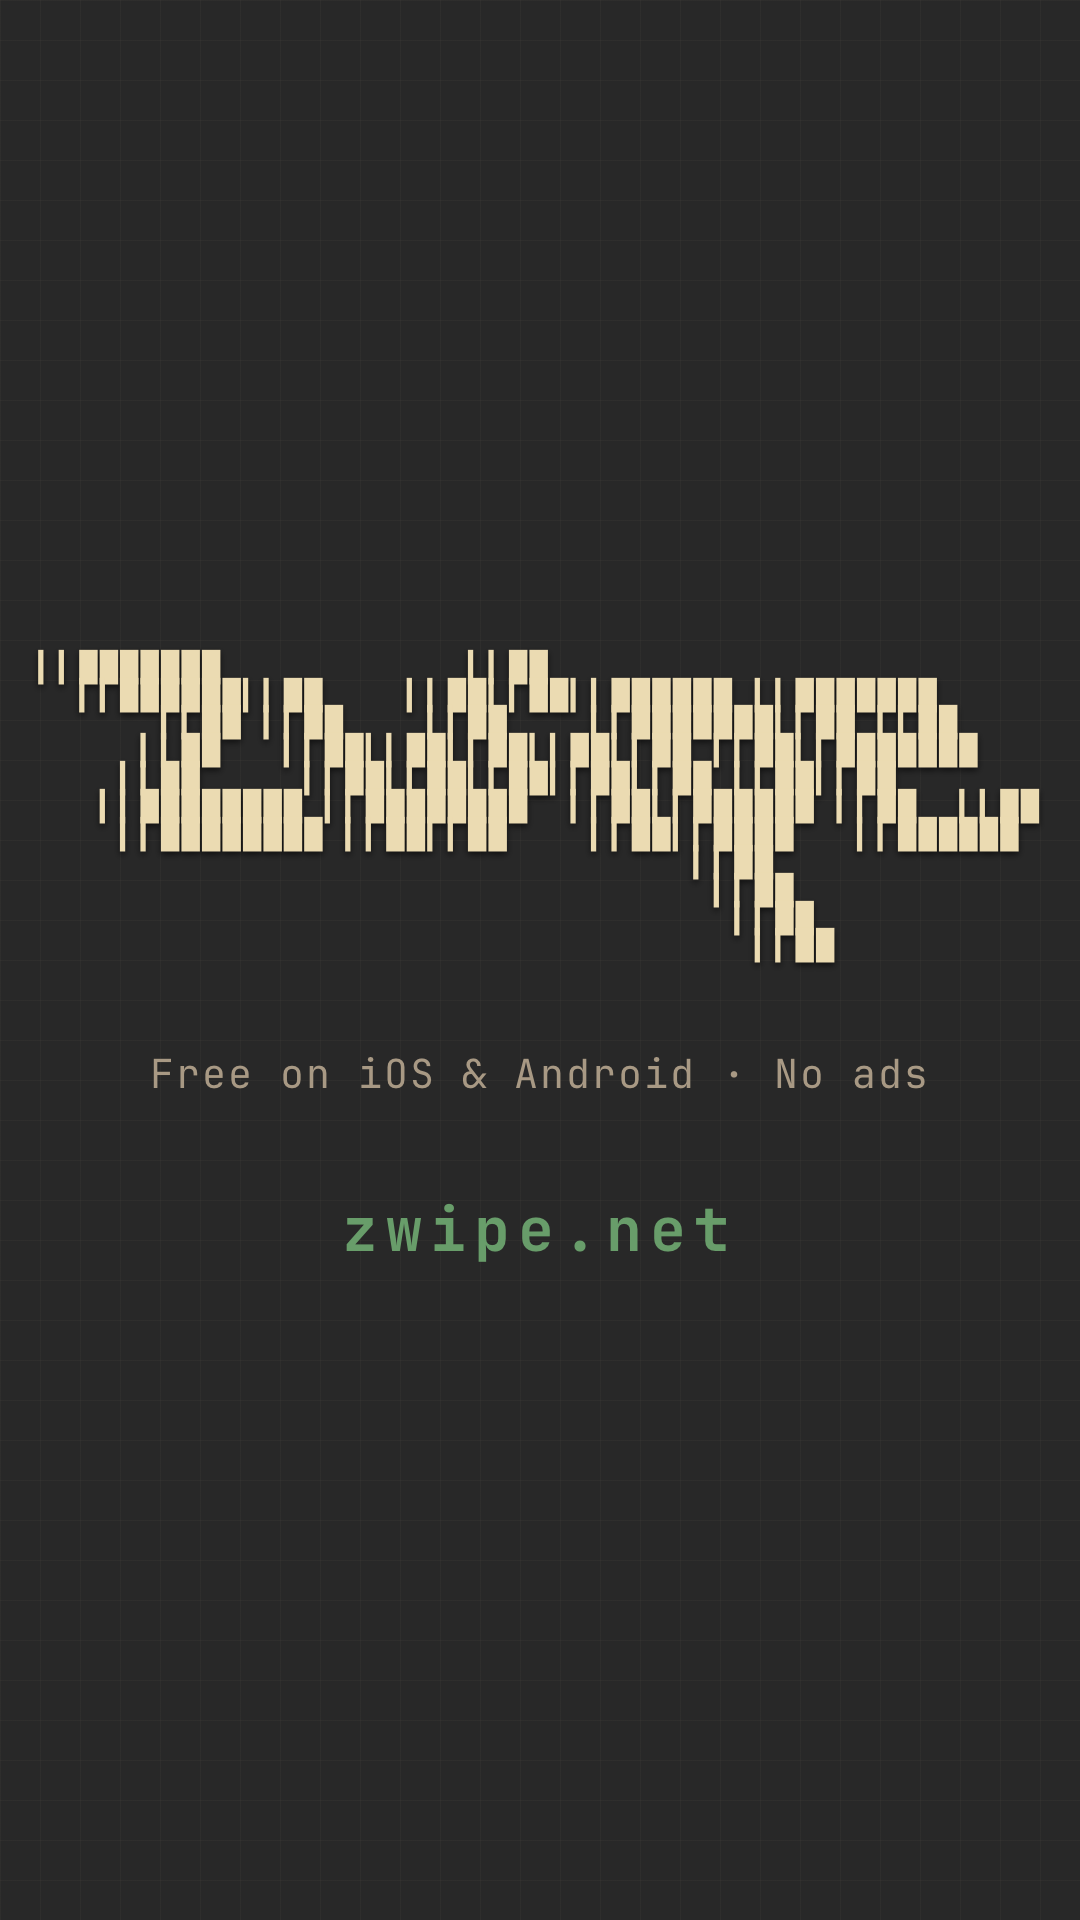
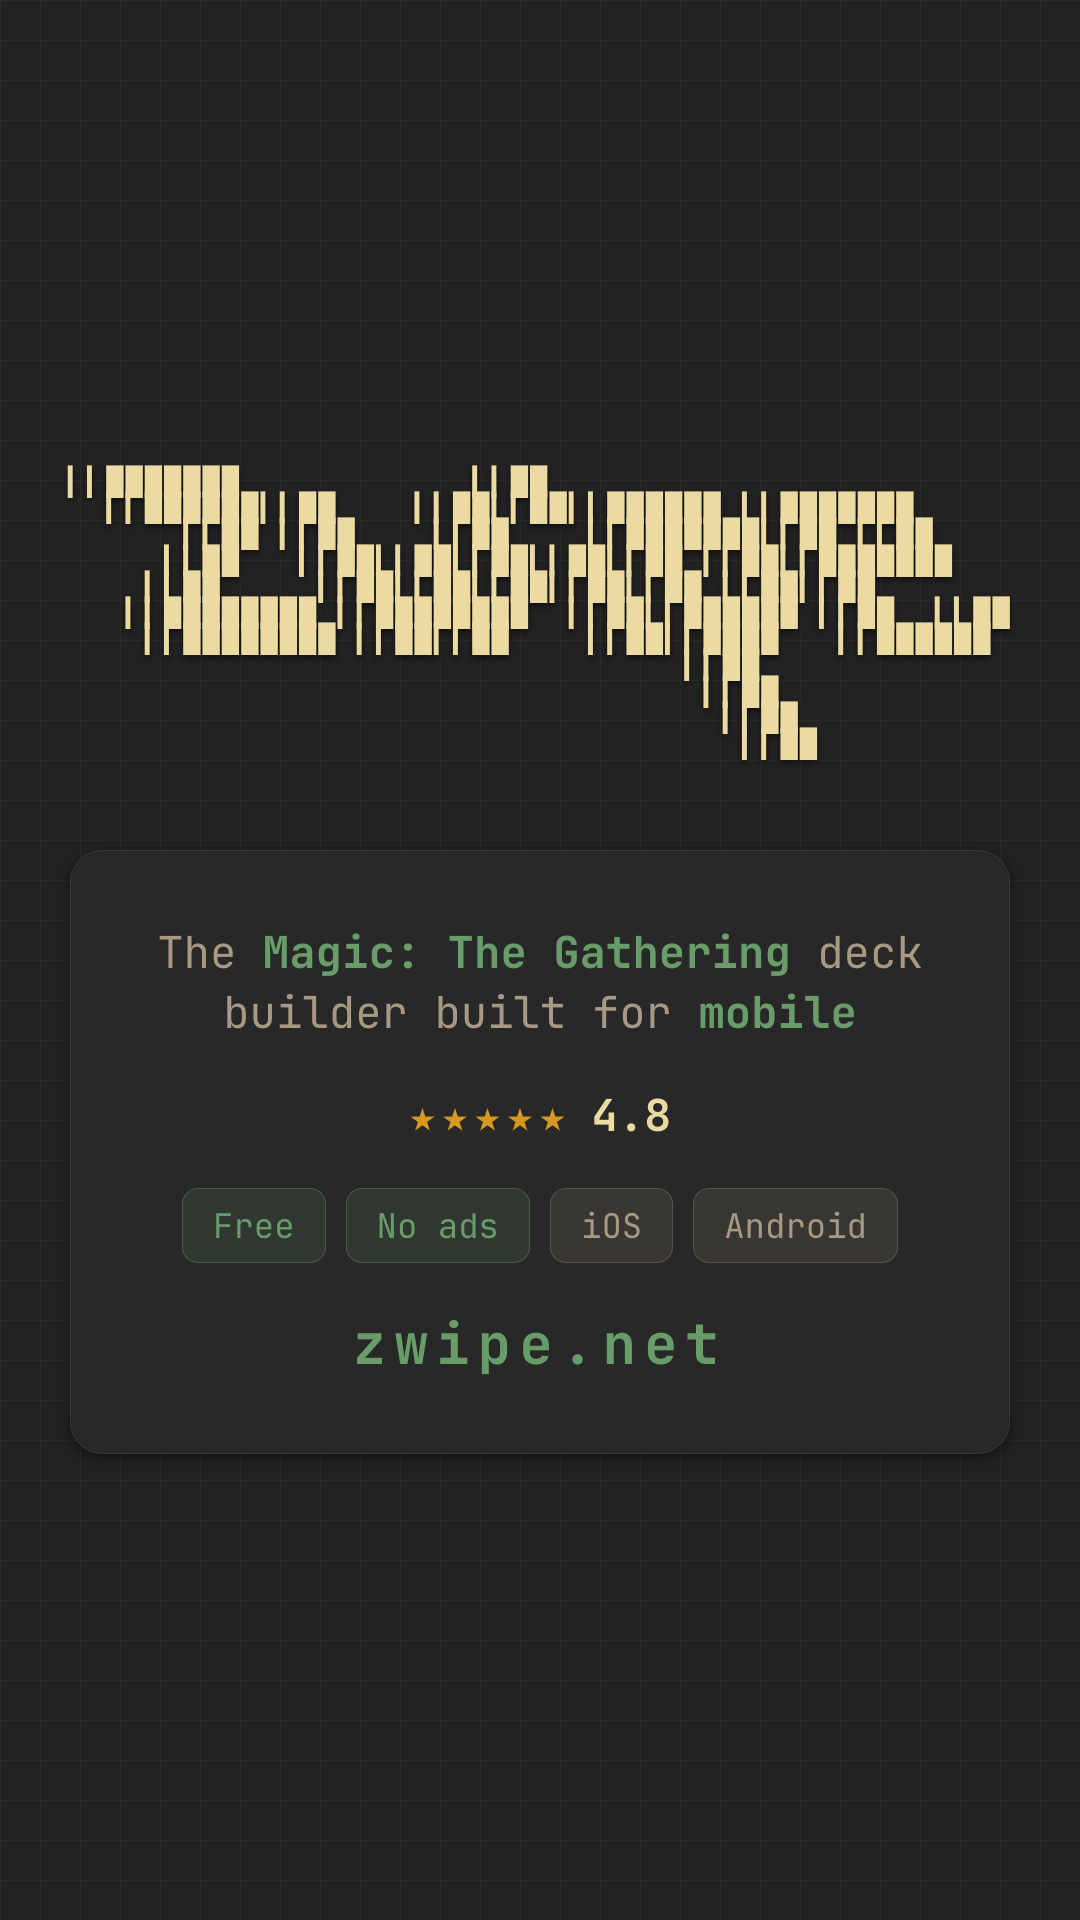
docs(marketing): restyle video end card to match og_default (grid, rating, tags)

diff --git a/context/marketing/video_end_card.html b/context/marketing/video_end_card.html
@@ -2,8 +2,11 @@
 <html lang="en">
 <head>
 <meta charset="utf-8" />
-<!-- Vertical (9:16, 1080x1920) end card for the swipe-demo video. Matches the
-     business-card BACK: full Zwipe wordmark on the gruvbox-dark grid + zwipe.net.
+<!-- Vertical (9:16, 1080x1920) end card for the swipe-demo video. Mirrors
+     og_default.html's look: the gruvbox-dark grid on a darkened --bg-sink, the
+     Zwipe wordmark sitting on the grid, then a hero-style bubble panel with the
+     value-prop tagline, a star rating, the Free/No ads/iOS/Android tag chips,
+     and zwipe.net. Sizes are scaled up from og_default for the taller canvas.
      The block-glyph wordmark needs the app's self-hosted JetBrains Mono (the CDN
      fontsource subset drops U+2580-U+259F), so the font is loaded from
      ../../zwiper/assets/fonts. Render with:
@@ -26,11 +29,16 @@
 }
 
 :root {
-  --bg: #282828;          /* gruvbox-dark bg */
-  --tan: #ebdbb2;         /* text-primary */
-  --muted: #a89984;       /* text-muted */
-  --green: #689d6a;       /* accent-primary */
-  --grid-line: rgba(235, 219, 178, 0.03);
+  --bg-primary: #282828;
+  --text-primary: #ebdba2;
+  --text-muted: #a89984;
+  --accent-primary: #689d6a;
+  --accent-tertiary: #d79921;
+  --border-secondary: #3c3836;
+  --shadow-md: 0 4px 12px rgba(0, 0, 0, 0.5);
+  --grid-line: rgba(235, 219, 162, 0.04);
+  --grid-size: 40px;
+  --bg-sink: #222222;
 }
 
 * { margin: 0; padding: 0; box-sizing: border-box; }
@@ -38,42 +46,88 @@
 html, body { width: 1080px; height: 1920px; }
 
 body {
-  background-color: var(--bg);
+  background-color: var(--bg-sink);
   background-image:
     linear-gradient(var(--grid-line) 1px, transparent 1px),
     linear-gradient(90deg, var(--grid-line) 1px, transparent 1px);
-  background-size: 40px 40px;
-  color: var(--tan);
+  background-size: var(--grid-size) var(--grid-size);
+  color: var(--text-primary);
   font-family: 'JetBrains Mono', ui-monospace, monospace;
   -webkit-font-smoothing: antialiased;
   display: flex;
   flex-direction: column;
   align-items: center;
   justify-content: center;
-  gap: 90px;
+  gap: 96px;
 }
 
 .wordmark {
   white-space: pre;
   font-weight: 700;
-  font-size: 34px;
+  font-size: 32px;
   line-height: 0.82;
-  color: var(--tan);
+  color: var(--text-primary);
   filter: drop-shadow(0 3px 3px rgba(0, 0, 0, 0.6));
 }
 
+.hero {
+  display: flex;
+  flex-direction: column;
+  align-items: center;
+  gap: 44px;
+  width: 940px;
+  padding: 72px 72px;
+  background-color: var(--bg-primary);
+  border: 1px solid var(--border-secondary);
+  border-radius: 32px;
+  box-shadow: var(--shadow-md);
+}
+
 .tagline {
-  font-size: 40px;
+  font-size: 44px;
   font-weight: 400;
-  letter-spacing: 2px;
-  color: var(--muted);
+  line-height: 1.35;
+  color: var(--text-muted);
+  text-align: center;
+}
+.hl { color: var(--accent-primary); font-weight: 700; }
+
+.meta {
+  display: flex;
+  align-items: center;
+  gap: 20px;
+  font-size: 44px;
+  font-weight: 700;
+}
+.stars { color: var(--accent-tertiary); letter-spacing: 6px; }
+.score { color: var(--text-primary); }
+
+.tags {
+  display: flex;
+  gap: 20px;
+}
+.tag {
+  padding: 14px 30px;
+  border-radius: 16px;
+  font-size: 34px;
+  border: 1px solid;
+}
+.tag-value {
+  color: var(--accent-primary);
+  background-color: color-mix(in srgb, var(--accent-primary) 12%, transparent);
+  border-color: color-mix(in srgb, var(--accent-primary) 40%, transparent);
+}
+.tag-plat {
+  color: var(--text-muted);
+  background-color: color-mix(in srgb, var(--text-muted) 12%, transparent);
+  border-color: color-mix(in srgb, var(--text-muted) 30%, transparent);
 }
 
 .site {
-  font-size: 60px;
+  font-size: 56px;
   font-weight: 700;
   letter-spacing: 8px;
-  color: var(--green);
+  color: var(--accent-primary);
 }
 </style>
 </head>
@@ -90,7 +144,19 @@ body {
                                   ▎▎▉▉
                                    ▎▎▉▉</pre>
 
-  <div class="tagline">Free on iOS &amp; Android · No ads</div>
-  <div class="site">zwipe.net</div>
+  <div class="hero">
+    <div class="tagline">The <span class="hl">Magic: The Gathering</span> deck builder built for <span class="hl">mobile</span></div>
+    <div class="meta">
+      <span class="stars">★★★★★</span>
+      <span class="score">4.8</span>
+    </div>
+    <div class="tags">
+      <span class="tag tag-value">Free</span>
+      <span class="tag tag-value">No ads</span>
+      <span class="tag tag-plat">iOS</span>
+      <span class="tag tag-plat">Android</span>
+    </div>
+    <div class="site">zwipe.net</div>
+  </div>
 </body>
 </html>